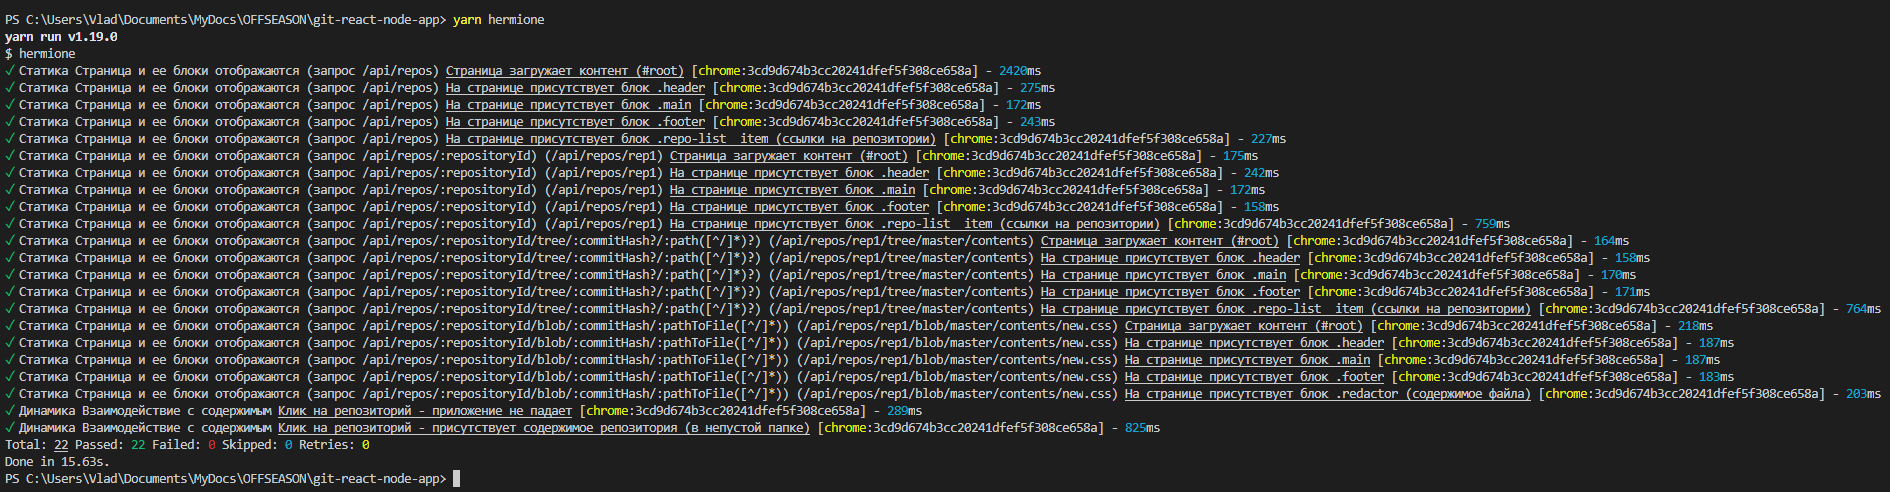
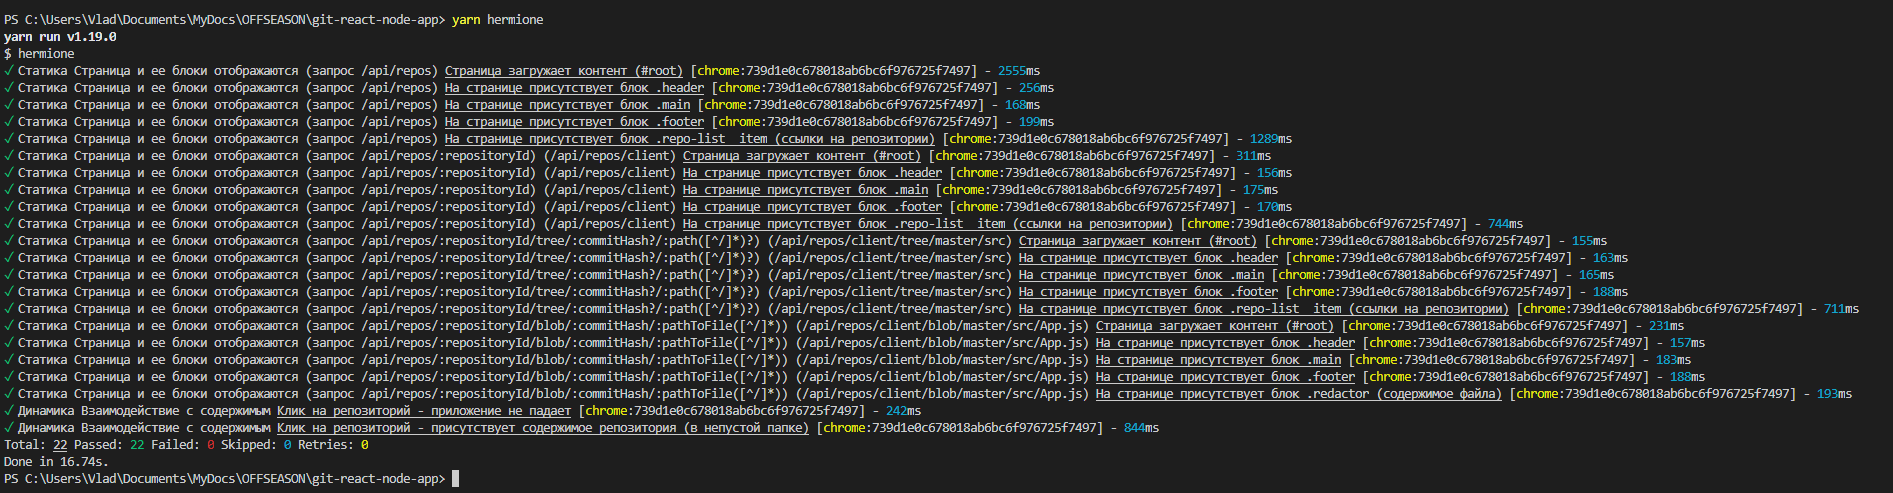
int

Changed region(s): [[0.0, 0.0305, 0.9989, 1.0]]

diff --git a/testIntegration/desktop/test.hermione.js b/testIntegration/desktop/test.hermione.js
@@ -50,7 +50,7 @@ describe('Статика', () => {
         })
     })
 
-    describe('Страница и ее блоки отображаются (запрос /api/repos/:repositoryId) (/api/repos/rep1)', () => {
+    describe('Страница и ее блоки отображаются (запрос /api/repos/:repositoryId) (/api/repos/client)', () => {
 
         it('Страница загружает контент (#root)', function() {
             return this.browser
@@ -98,7 +98,7 @@ describe('Статика', () => {
         })
     })
 
-    describe('Страница и ее блоки отображаются (запрос /api/repos/:repositoryId/tree/:commitHash?/:path([^/]*)?) (/api/repos/rep1/tree/master/contents)', () => {
+    describe('Страница и ее блоки отображаются (запрос /api/repos/:repositoryId/tree/:commitHash?/:path([^/]*)?) (/api/repos/client/tree/master/src)', () => {
 
         it('Страница загружает контент (#root)', function() {
             return this.browser
@@ -139,14 +139,21 @@ describe('Статика', () => {
         it('На странице присутствует блок .repo-list__item (ссылки на репозитории)', function() {
             return this.browser
                 .url('http://localhost:3000/api/repos/client/tree/master/src')
-                .waitForVisible('.repo-list__item')
+                .waitUntil(() => {
+                    return this.browser.isExisting('.repo-list__item')
+                })
                 .then((exists) => {
                     assert.ok(exists, 'список репозиториев не появился');
                 })
+                // .isExisting('.repo-list__item')
+                // .then((exists) => {
+                //     assert.ok(exists, 'список репозиториев не появился');
+                // })
+
         })
     })
 
-    describe('Страница и ее блоки отображаются (запрос /api/repos/:repositoryId/blob/:commitHash/:pathToFile([^/]*)) (/api/repos/rep1/blob/master/contents/new.css)', () => {
+    describe('Страница и ее блоки отображаются (запрос /api/repos/:repositoryId/blob/:commitHash/:pathToFile([^/]*)) (/api/repos/client/blob/master/src/App.js)', () => {
 
         it('Страница загружает контент (#root)', function() {
             return this.browser
